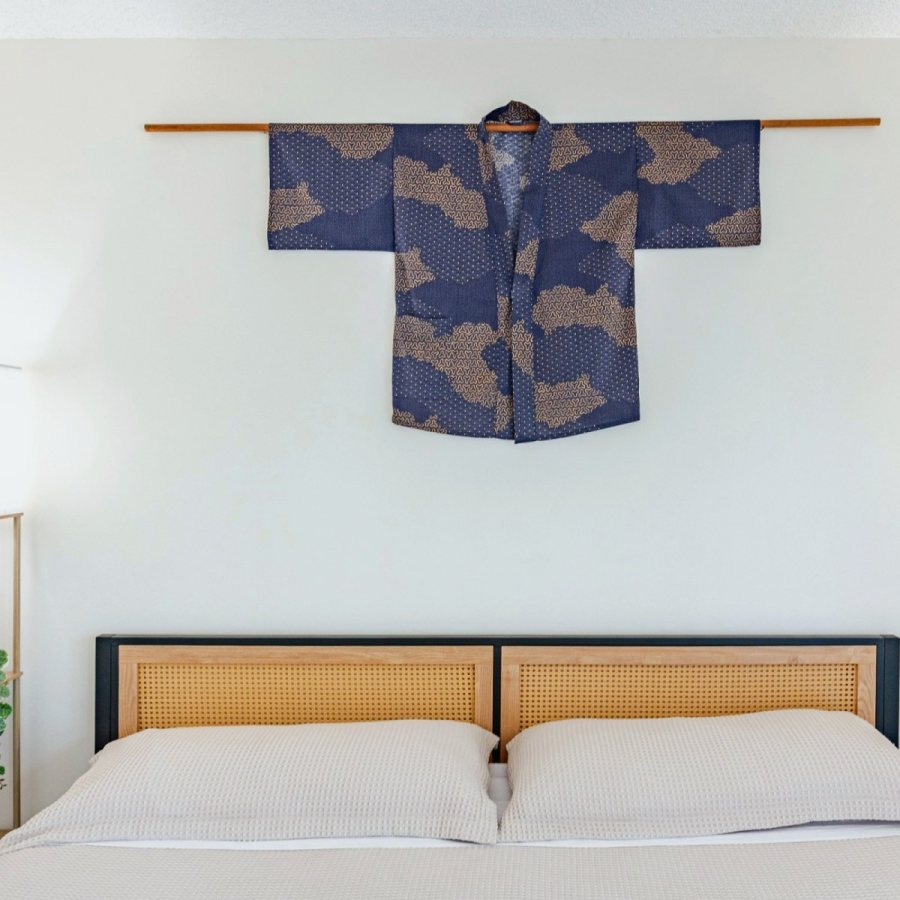
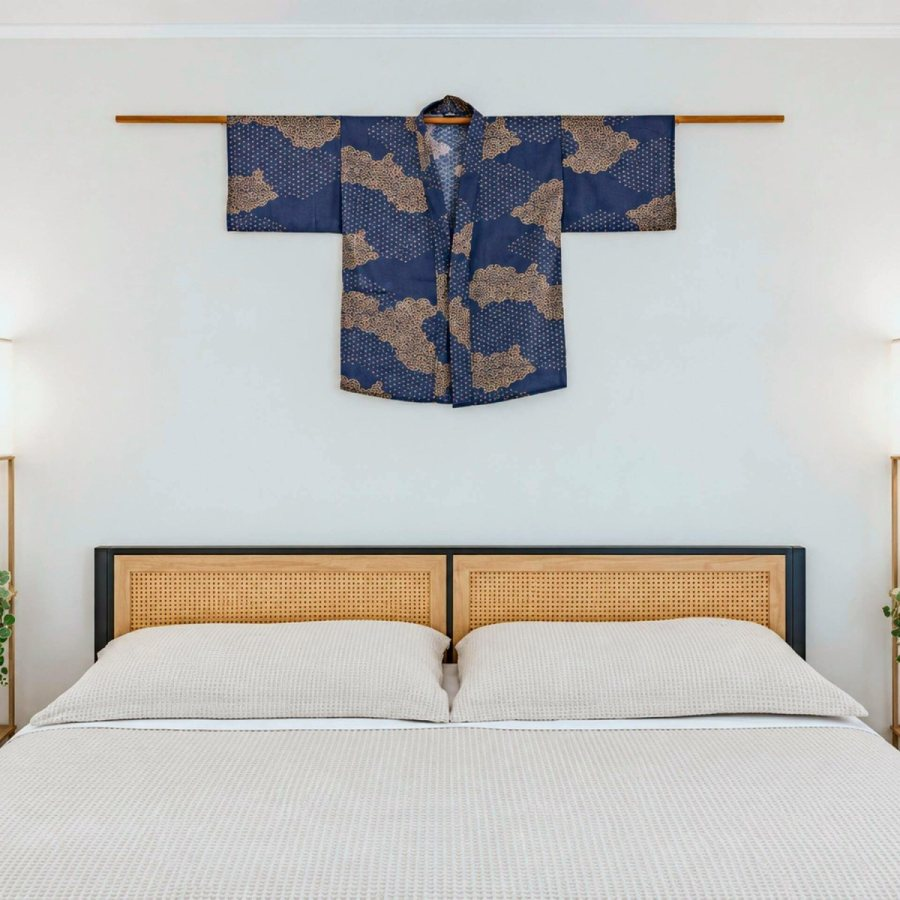
Use straight-on bed photo for Japanese card
Claude-Session: https://claude.ai/code/session_012xw2xExUBmuc9fQH3uMMqH

diff --git a/index.html b/index.html
@@ -670,7 +670,7 @@ var PHOTOS = (typeof window!=='undefined' && window.__PHOTOS__) || {};
 LISTINGS.forEach(function(l){
   if(PHOTOS[l.id] && PHOTOS[l.id].length) l.images = PHOTOS[l.id].slice();
   l.images = l.images.map(function(u){ return u.split('?')[0]; });
-  l.card = 'images/cards/'+l.id+'.jpg?v=3';
+  l.card = 'images/cards/'+l.id+'.jpg?v=4';
 });
 function pic(u,w){ return u + '?im_w=' + w; }
 
